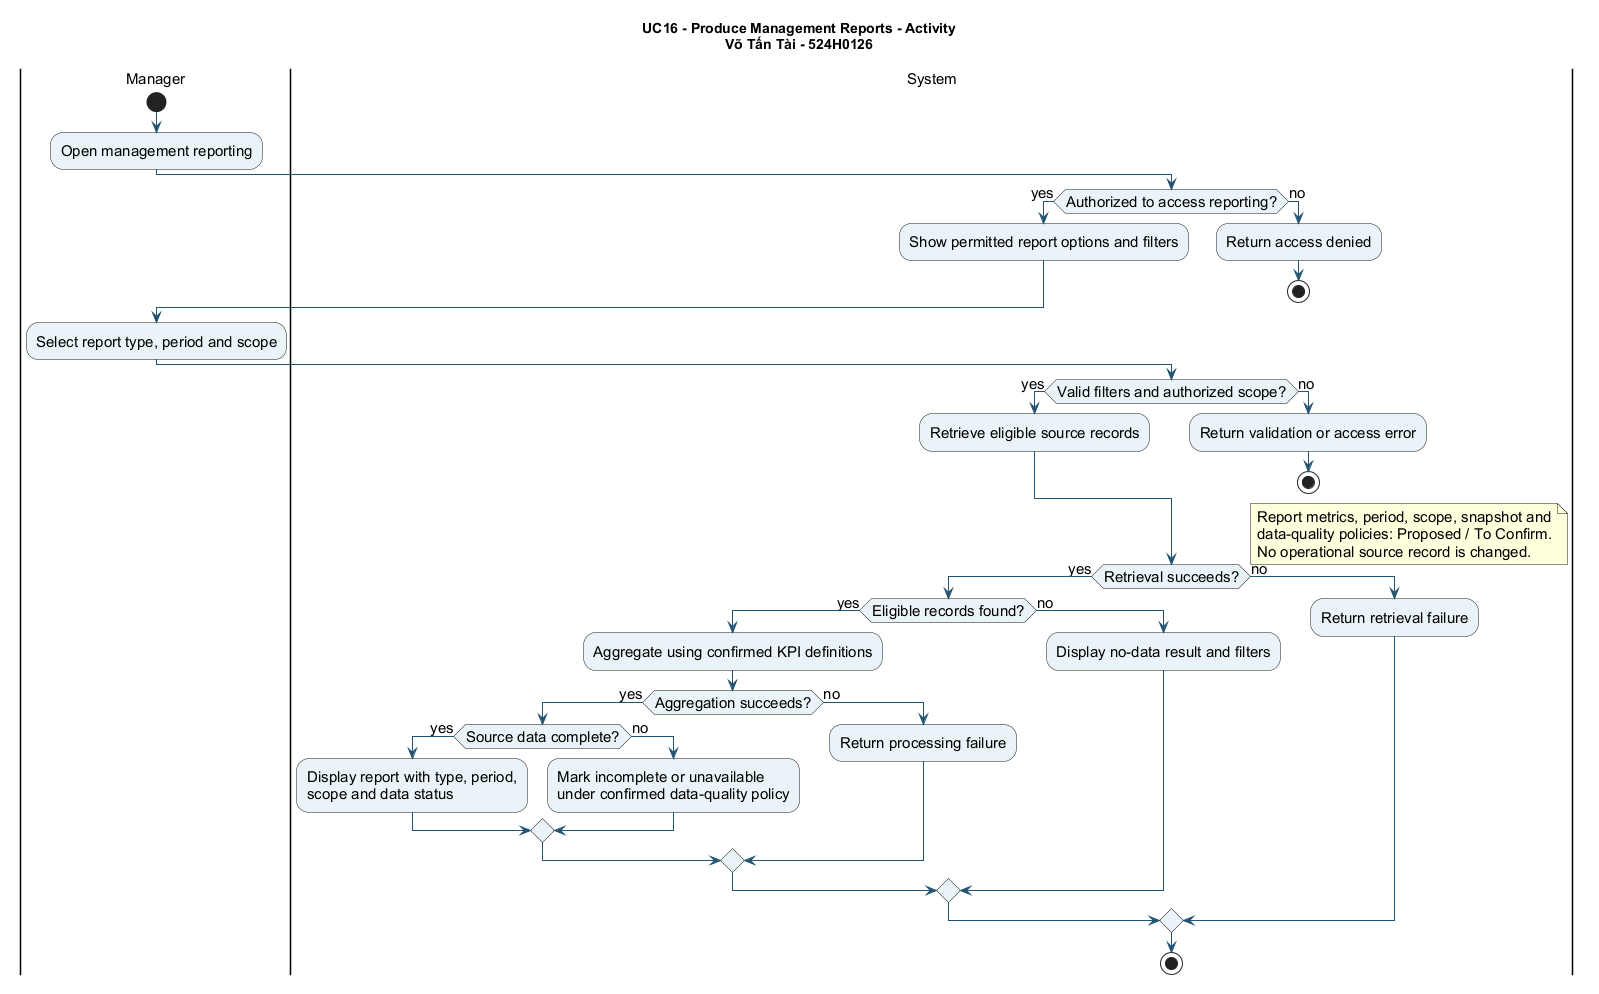
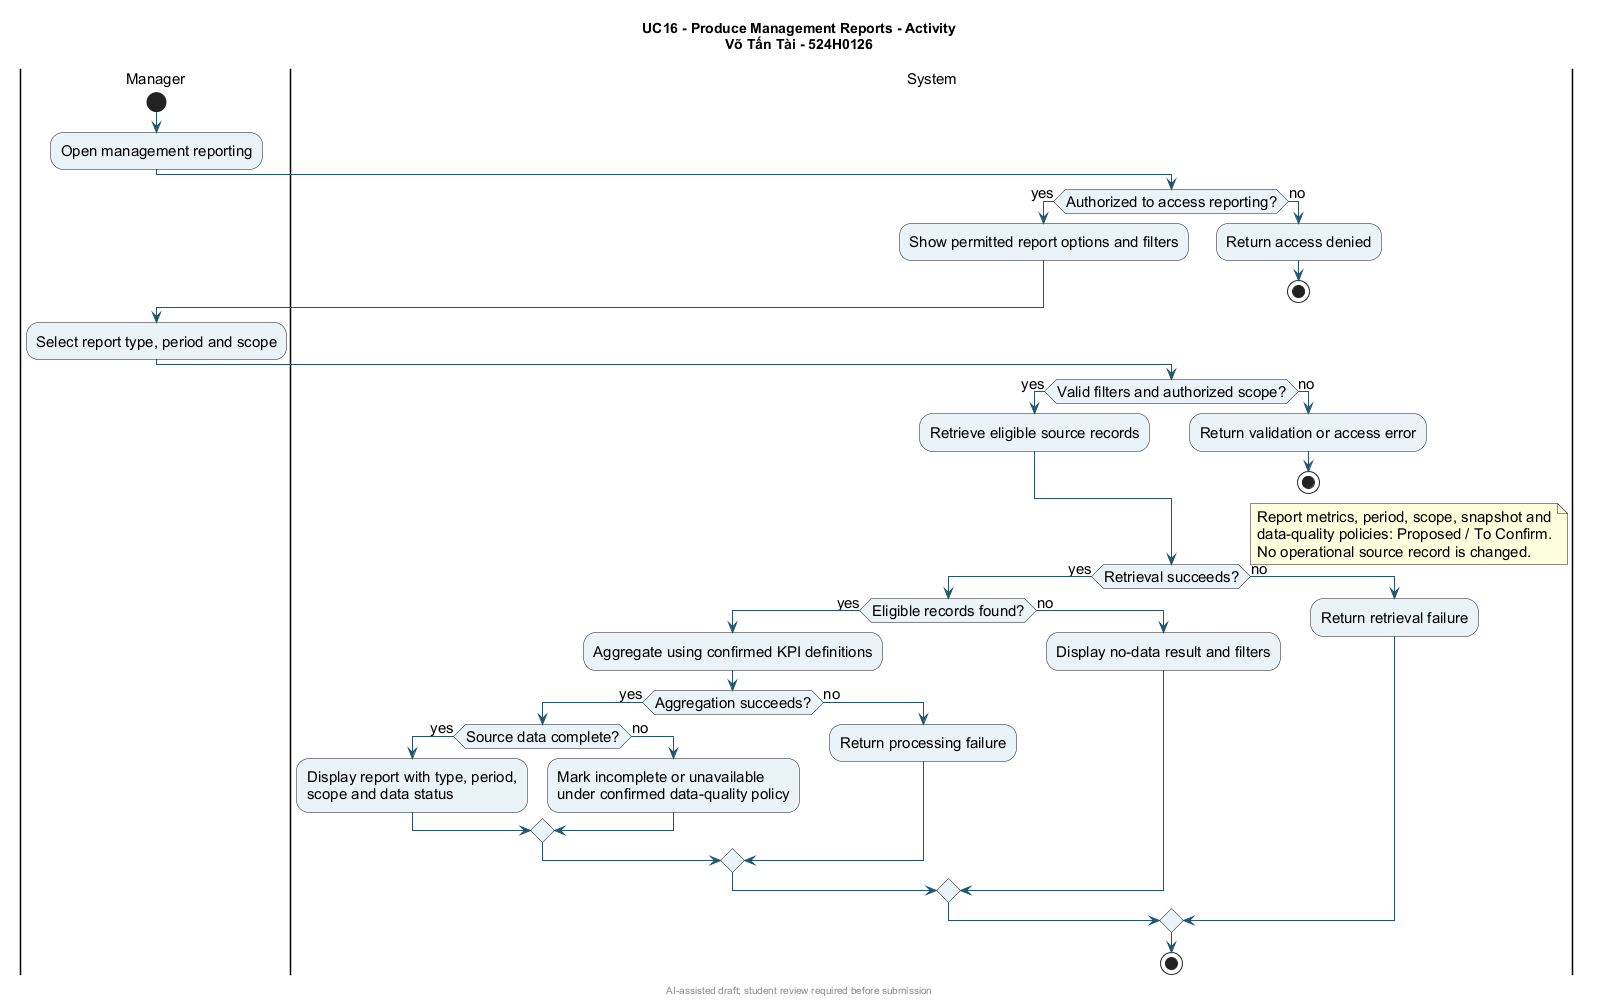
docs(uc16): align reporting design with official RAD template

diff --git a/docs/sprint1/UC16_ManagementReports/UC16.md b/docs/sprint1/UC16_ManagementReports/UC16.md
@@ -1,17 +1,18 @@
 # UC16 — Produce Management Reports
 
 **Author:** Võ Tấn Tài — 524H0126
+**AI use:** AI-assisted draft; student review is required before submission. See the Team Workbook AI Usage Log.
 
 ## Scope and evidence
 
-The Team F4 proposal, workbook, and presentation identify UC16 as management reporting owned by Võ Tấn Tài. They mention sales, hub workload and delivery performance. Workbook Client Q&A Q5 asks which metrics and reporting periods are required; its proposed answer and Assumption A-05 suggest day/week views, but both remain unconfirmed. The SaigonBite Case Study, Final Project Requirements and RAD Report Template were not available during the repository audit. Thus the report definitions below are a **Proposed / To Confirm** analysis draft, not an approved KPI specification.
+The official [Case Study and Final Project Requirements](https://drive.google.com/drive/folders/14cJnJ9_AhfFeWIxvzuRefNueToF5RyNF) identify the Manager and three report categories: sales, hub workload and delivery performance. Team F4's proposal assigns UC16 to Võ Tấn Tài. Workbook Client Q&A Q5 asks which metrics and reporting periods are required; its proposed answer and Assumption A-05 suggest day/week views, but both remain unconfirmed. The categories are source-backed; KPI formulas, periods, scope permissions and data-quality rules remain **Proposed / To Confirm**.
 
 ## Fully developed use case description
 
 | Field | Description |
 |---|---|
 | Goal | Allow an authorized Manager to request and inspect a management report for a selected scope and period. |
-| Primary actor | Manager, as named in Team F4's proposal and workbook. The specific role permissions and visibility limits are **To Confirm**. |
+| Primary actor | Manager, as named in the official Case Study and Final Project Requirements. Specific permissions and visibility limits are **To Confirm**. |
 | Trigger | The Manager opens reporting and requests a report. |
 | Stakeholders | Manager needs dependable operational information; Admin and operational staff need records to be interpreted consistently; customers require their personal data to remain protected. |
 | Preconditions | The Manager is authenticated and authorized for the requested report and scope (**permission matrix To Confirm**). Required source records are available. The selected report type and period are supported once confirmed. |
@@ -21,7 +22,7 @@ The Team F4 proposal, workbook, and presentation identify UC16 as management rep
 ### Main success scenario
 
 1. The Manager opens management reporting. The system presents the report options and filters the Manager may access.
-2. The Manager selects a report type, period and permitted scope. Candidate report types are sales, hub workload and delivery performance; exact options are **To Confirm**.
+2. The Manager selects a report type, period and permitted scope. The source-backed categories are sales, hub workload and delivery performance; exact options and filters are **To Confirm**.
 3. The system checks authorization and filter validity.
 4. The system retrieves source records within the permitted scope and requested period.
 5. The system aggregates values using the confirmed KPI definitions and checks whether source data is sufficiently complete for the requested result.
@@ -29,7 +30,7 @@ The Team F4 proposal, workbook, and presentation identify UC16 as management rep
 
 ### Alternative flows
 
-- **A1 — Different report type:** At step 2, the Manager selects sales, hub workload or delivery performance. The system applies that report's confirmed metric definitions and eligible record rules. All formulas and status inclusion rules are **To Confirm**.
+- **A1 — Different report type:** At step 2, the Manager selects sales, hub workload or delivery performance. The system applies that report's confirmed metric definitions and eligible record rules. Formulas and status inclusion rules are **To Confirm**.
 - **A2 — No eligible records:** At step 4, no records match. The system displays an empty result with the selected filters and a clear no-data message; it does not substitute zero for an undefined metric.
 - **A3 — Narrower scope or period:** At step 2, the Manager changes a filter. The system checks permission again and recalculates the report for the new scope. Whether day/week periods or individual hub filters are required is **To Confirm**.
 - **A4 — Export:** If export is approved later, the Manager requests an export of the visible result. Format, content, privacy controls and retention are **To Confirm**; no export event is assumed in the current SSD.
@@ -47,7 +48,7 @@ The Team F4 proposal, workbook, and presentation identify UC16 as management rep
 | ID | Rule or decision | Status |
 |---|---|---|
 | BR16-1 | Only authorized Managers can access a report and its underlying scope. Exact roles, row-level scope and sensitive fields require confirmation. | Proposed / To Confirm |
-| BR16-2 | Report values must have defined source records, filters, units and status inclusion rules. Sales, hub workload and delivery performance are candidate categories only. | To Confirm |
+| BR16-2 | Report values must have defined source records, filters, units and status inclusion rules. Sales, hub workload and delivery performance are confirmed categories; their calculations are **To Confirm**. | Case Study categories; detail To Confirm |
 | BR16-3 | Reporting period and timezone must be specified. Day/week is the unconfirmed proposal in Q5/A-05. | To Confirm |
 | BR16-4 | No-data, incomplete-data and processing-error results must be distinguishable from valid zero values. Exact data-quality thresholds are To Confirm. | Proposed / To Confirm |
 | BR16-5 | Generating a report reads operational data and must not change it. Export, scheduling and storage are outside the confirmed scope. | Proposed / To Confirm |

diff --git a/docs/sprint1/UC16_ManagementReports/UC16-design.md b/docs/sprint1/UC16_ManagementReports/UC16-design.md
@@ -1,8 +1,9 @@
 # UC16 — Design Classes, CRC Cards, and Report Logic Review
 
 **Author:** Võ Tấn Tài — 524H0126
+**AI use:** AI-assisted draft; student review is required before submission. See the Team Workbook AI Usage Log.
 
-**Status:** Proposed design aligned with [UC16 specification](UC16.md). KPI, period, access and data-quality decisions remain **To Confirm** under workbook Q5/A-05.
+**Status:** Proposed design aligned with [UC16 specification](UC16.md). The official Case Study confirms the Manager and three report categories. KPI, period, access and data-quality decisions remain **To Confirm** under workbook Q5/A-05.
 
 ## Design classes
 
@@ -55,3 +56,7 @@
 | Successful report | Display values with type, period, scope and data status; no operational mutation. | Source tables, KPI units and display format. |
 
 The existing shared domain model already contains `Order`, `Hub` and `Shipper` for UC07/UC10. UC16's read model should integrate with the eventual overall domain model without editing those team-owned diagrams in this phase. Export, report scheduling and stored report history are not included until confirmed.
+
+## Sprint 1 report template design evidence
+
+The [OOD sequence diagram](diagrams/16-ood-sequence.puml) traces authorization, definition lookup, filter checks, source read, no-data, quality and aggregation outcomes. The [final integrated design class diagram](diagrams/16-final-design-class.puml) adds a proposed `ReportResult` value object so the View can distinguish a complete report from no-data or an error. It retains read-only source access. Both sources have adjacent PNGs. The overall Order state machine is shared context; UC16 is a read-only use case and does not itself change an Order state.
